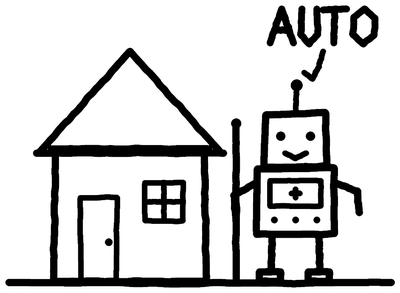
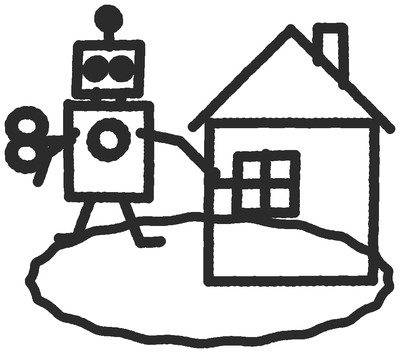
art: redraw six more doodles onto interacting objects (#459)
Tier two of the audit list: pure stock icons where the stamped word carried all
the meaning. A pegboard grid with ATTACK MATRIX. A chip on the literal edge of a
table with EDGE, where the pun was the whole drawing. A crate with CONTEXT. A
brain lifting a barbell with LEARN. A robot face with SENSE. A house and a robot
standing apart with AUTO.

Replaced with compositions that carry the idea:

mitre-attack, a hand pinning one photograph over the three footprints on a
pegboard that match a single intruder's trail.

edge-computing, a camera with a small brain bolted to its back and the cut cable
coiled on the ground.

context-window, a conveyor feeding sheets into a box that is already full, with
the overflow tumbling off the end.

continuous-learning, someone on a treadmill reading one page at a time off a
belt that keeps feeding fresh ones.

multimodal, three funnels shaped like an eye, an ear and a page, all pouring
into one cup.

network-auto, a wind-up robot walking a fixed circuit around a house, latching
each window as it passes.

Process note: context-window needed one regeneration. The first attempt drew a
scroll through a letterbox, which masked into an unreadable blob because the
strokes merged. Lowering the mask threshold did not help, which is the tell that
the source drawing is wrong rather than the mask; a scroll rendered as a
featureless ribbon has nothing to preserve. The conveyor version reads at spot
[…]

diff --git a/src/posts/2024-10-22-ai-edge-computing.md b/src/posts/2024-10-22-ai-edge-computing.md
@@ -15,7 +15,7 @@ That failure taught me something important about edge computing. After convertin
 
 The real win? Latency dropped from 200-500ms (cloud-based) to 15-50ms (local inference). And I'm not paying $0.001 per inference anymore. The convergence of artificial intelligence and edge computing represents one of the most significant shifts in how we think about data processing and decision-making. See my practical implementation of [running LLaMA on Raspberry Pi](/posts/2024-09-15-running-llama-raspberry-pi-pipeload) for hands-on edge deployment techniques. Instead of sending everything to distant cloud servers, we're bringing intelligence to where data originates, at the "edge" of the network. This transformation is creating systems that can respond in milliseconds rather than seconds, protect privacy by keeping sensitive data local, and maintain functionality even when network connections fail. It's fundamentally changing what's possible with AI applications. Though I should say, edge AI works great for simple tasks like object detection, but complex reasoning still needs cloud-scale compute.
 
-<div class="zine-doodle" aria-hidden="true" style="--doodle: url('/assets/doodles/edge-computing.png'); width: min(200px, 55%); aspect-ratio: 300/387; margin: 2rem auto 0.5rem;"></div>
+<div class="zine-doodle" aria-hidden="true" style="--doodle: url('/assets/doodles/edge-computing.png'); width: min(200px, 55%); aspect-ratio: 400/478; margin: 2rem auto 0.5rem;"></div>
 <p class="hand-note" style="text-align: center; display: block;">compute, out at the edge</p>
 
 ## Understanding Edge Computing: Proximity as Power

diff --git a/src/posts/2024-07-24-multimodal-foundation-models.md b/src/posts/2024-07-24-multimodal-foundation-models.md
@@ -13,7 +13,7 @@ The first time I fed a UI mockup screenshot to GPT-4 Vision and watched it gener
 
 That moment marked my introduction to multimodal foundation models, systems that can reason across text, images, audio, and video with human-like fluency. The implications were staggering: AI that could truly see, hear, and understand the world as we do, though I'm cautious about overstating how close we really are to [human-level multimodal understanding](/posts/2024-03-20-transformer-architecture-deep-dive).
 
-<div class="zine-doodle" aria-hidden="true" style="--doodle: url('/assets/doodles/multimodal.png'); width: min(200px, 55%); aspect-ratio: 300/426; margin: 2rem auto 0.5rem;"></div>
+<div class="zine-doodle" aria-hidden="true" style="--doodle: url('/assets/doodles/multimodal.png'); width: min(200px, 55%); aspect-ratio: 400/440; margin: 2rem auto 0.5rem;"></div>
 <p class="hand-note" style="text-align: center; display: block;">eyes, ears, and a voice</p>
 
 ## The Convergence: When AI Learns to See and Speak

diff --git a/src/posts/2025-02-24-continuous-learning-cybersecurity.md b/src/posts/2025-02-24-continuous-learning-cybersecurity.md
@@ -10,7 +10,7 @@ tags:
 ---
 After 15+ years in cybersecurity, I've learned one truth: The moment you stop learning is the moment you become obsolete. But here's the challenge – how do you keep up with a field that literally changes every day without burning out? Here are the strategies that have worked for me, refined through [my journey from IT support to senior InfoSec engineer](/posts/2025-03-24-from-it-support-to-senior-infosec-engineer/).
 
-<div class="zine-doodle" aria-hidden="true" style="--doodle: url('/assets/doodles/continuous-learning.png'); width: min(220px, 58%); aspect-ratio: 300/316; margin: 2rem auto 0.5rem;"></div>
+<div class="zine-doodle" aria-hidden="true" style="--doodle: url('/assets/doodles/continuous-learning.png'); width: min(220px, 58%); aspect-ratio: 400/371; margin: 2rem auto 0.5rem;"></div>
 <p class="hand-note" style="text-align: center; display: block;">the brain, still training</p>
 
 ## The Learning Paradox

diff --git a/src/posts/2025-02-10-automating-home-network-security.md b/src/posts/2025-02-10-automating-home-network-security.md
@@ -17,7 +17,7 @@ tags:
 My process used to be: check the router admin page when I remembered to, glance at the Pi-hole dashboard once a week, and otherwise assume nothing had gone wrong since the last look. That held up fine, right up until an unrecognized device sat quietly on the LAN for who knows how long before I noticed. With 25+ connected devices and a family that does not share my threat model, "I'll check on it later" stopped being a security posture.
 
 
-<div class="zine-doodle" aria-hidden="true" style="--doodle: url('/assets/doodles/network-auto.png'); width: min(300px, 78%); aspect-ratio: 400/293; margin: 2rem auto 0.5rem;"></div>
+<div class="zine-doodle" aria-hidden="true" style="--doodle: url('/assets/doodles/network-auto.png'); width: min(300px, 78%); aspect-ratio: 400/353; margin: 2rem auto 0.5rem;"></div>
 <p class="hand-note" style="text-align: center; display: block;">a guard that never sleeps</p>
 
 ## Requirements

diff --git a/src/posts/2025-09-14-threat-intelligence-mitre-attack-dashboard.md b/src/posts/2025-09-14-threat-intelligence-mitre-attack-dashboard.md
@@ -13,7 +13,7 @@ tags:
 ---
 Years ago, I learned the hard way that reading threat reports isn't enough. After missing critical indicators buried in vendor PDFs, I built my own threat intelligence dashboard. This guide shows you how to create one using the MITRE ATT&CK framework and open-source feeds, turning overwhelming data into actionable intelligence.
 
-<div class="zine-doodle" aria-hidden="true" style="--doodle: url('/assets/doodles/mitre-attack.png'); width: min(240px, 62%); aspect-ratio: 440/560; margin: 2rem auto 0.5rem;"></div>
+<div class="zine-doodle" aria-hidden="true" style="--doodle: url('/assets/doodles/mitre-attack.png'); width: min(240px, 62%); aspect-ratio: 400/415; margin: 2rem auto 0.5rem;"></div>
 <p class="hand-note" style="text-align: center; display: block;">the adversary, gridded</p>
 
 ## Why Personal Threat Intelligence Matters

diff --git a/src/posts/2024-12-03-context-windows-llms.md b/src/posts/2024-12-03-context-windows-llms.md
@@ -20,7 +20,7 @@ It's a finite space where previous conversation, relevant information, and the c
 
 The length of conversations we can have. The complexity of documents we can analyze. The quality of code assistance we can expect. Understanding context windows isn't optional if you're working with large language models.
 
-<div class="zine-doodle" aria-hidden="true" style="--doodle: url('/assets/doodles/context-window.png'); width: min(240px, 62%); aspect-ratio: 340/342; margin: 2rem auto 0.5rem;"></div>
+<div class="zine-doodle" aria-hidden="true" style="--doodle: url('/assets/doodles/context-window.png'); width: min(240px, 62%); aspect-ratio: 400/366; margin: 2rem auto 0.5rem;"></div>
 <p class="hand-note" style="text-align: center; display: block;">the model's short-term memory</p>
 
 ## The Mechanics: How Context Windows Work
